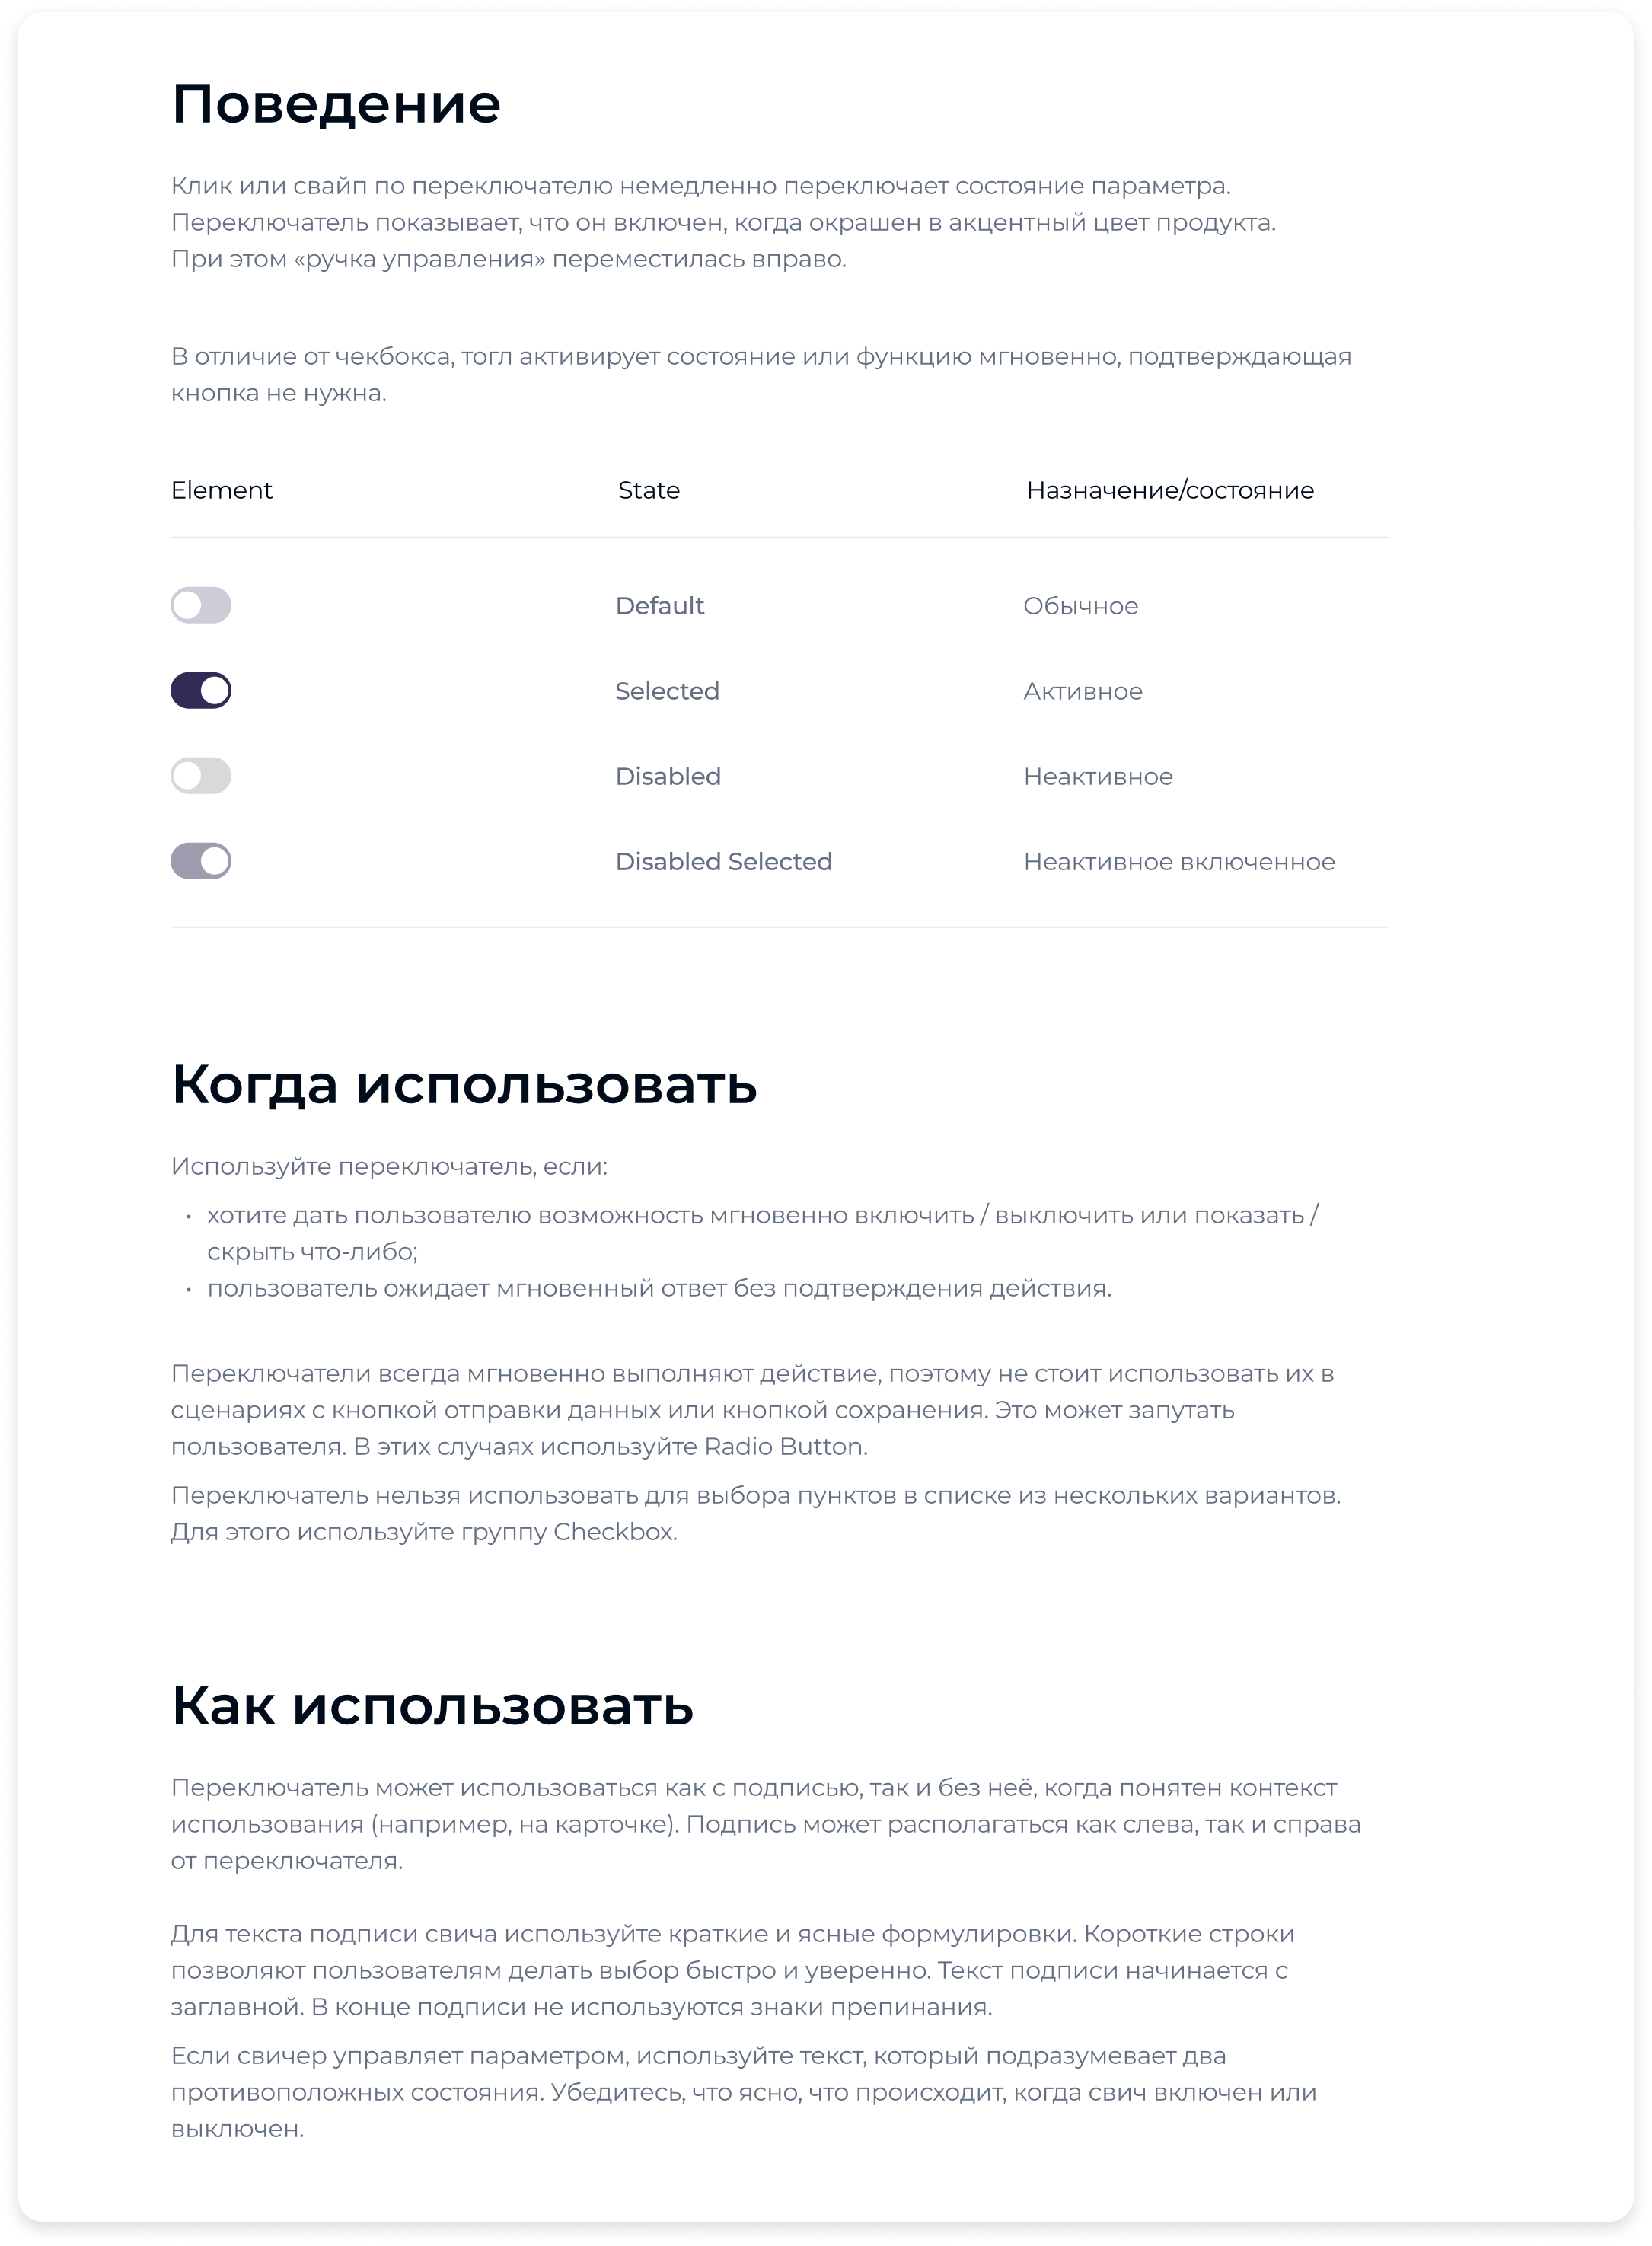
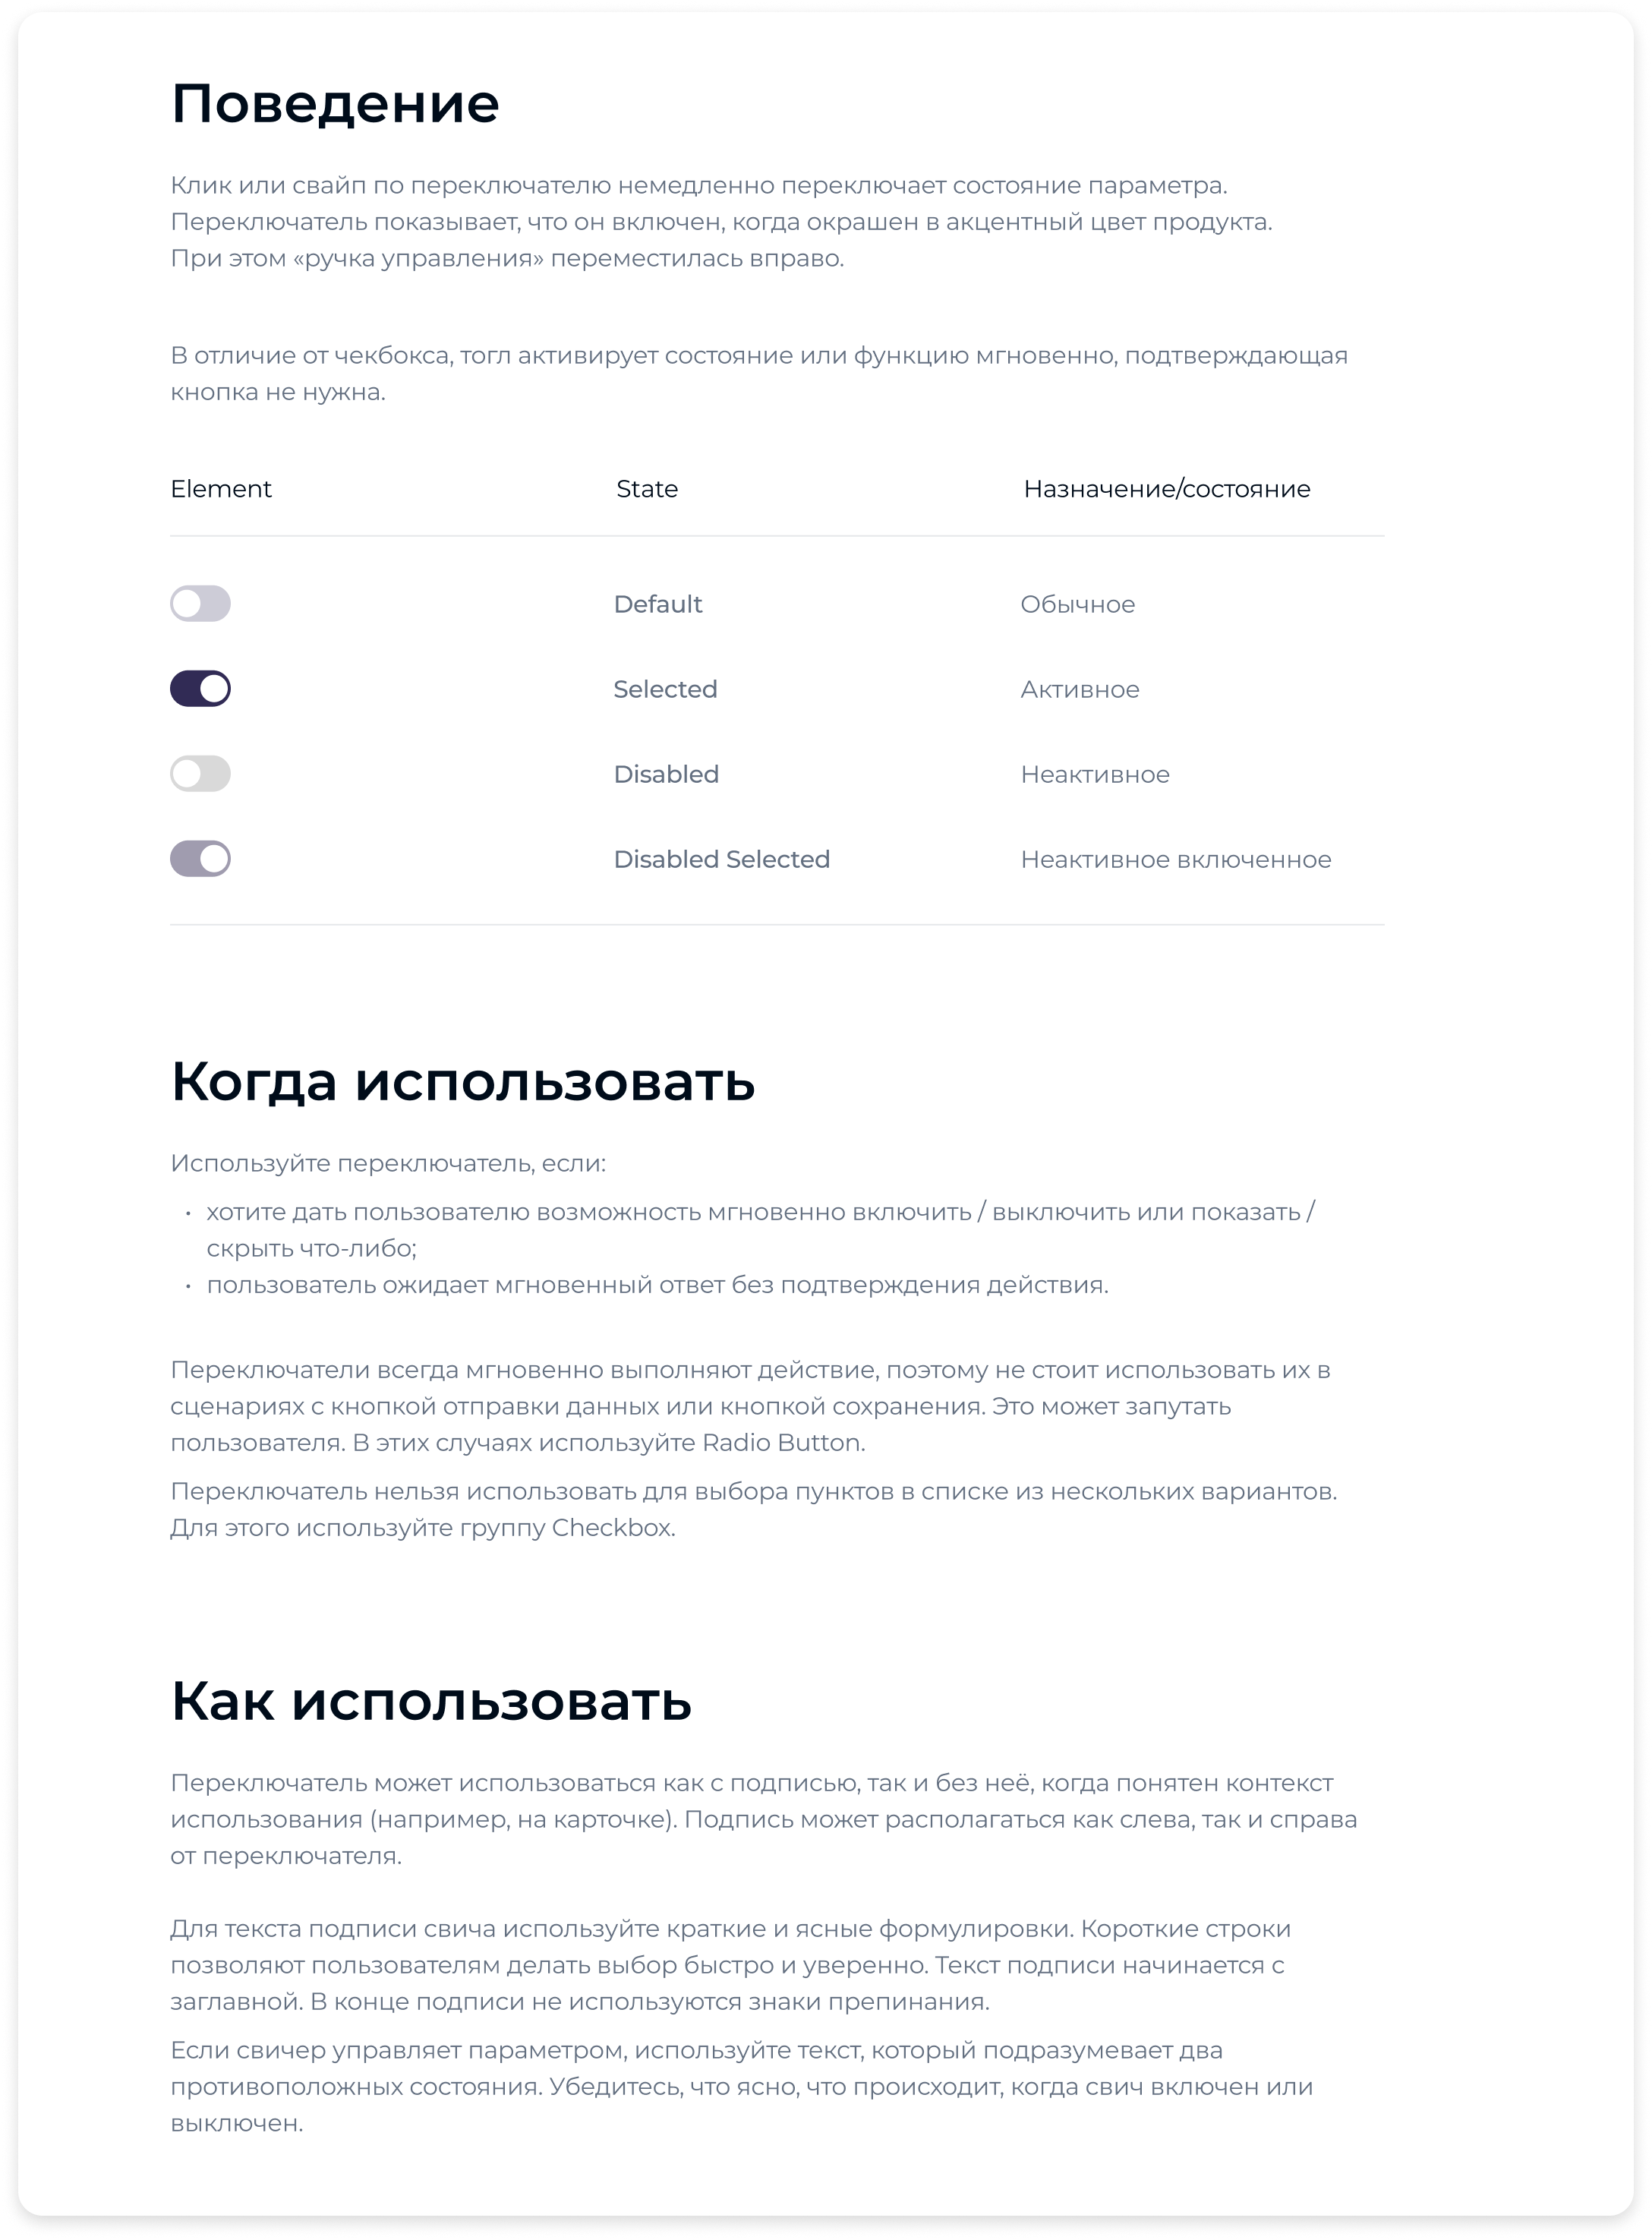
Update pages, update ava, update texts

diff --git a/ad-mortgage.html b/ad-mortgage.html
@@ -65,10 +65,10 @@
 
     <div class="company-grant card">
         <div class="company-grant__header">
-            <p class="s semi-bold">B2B</p>
+            <p class="s semi-bold">B2B + B2C</p>
             <div class="tag red xxs">DESKTOP / TABLET / MOBILE</div>
         </div>
-        <h2 class="xxl">AIM</h2>
+        <h2 class="xxl">A&D Mortgage</h2>
         <div class="company-grant__chips">
             <div class="tag outline xxs">
                 <div class="pink round"></div>
@@ -84,35 +84,73 @@
             </div>
         </div>
 
-        <h3 class="m company-grant__title mb32"><strong>«AIM»</strong> - один из продуктов компании, портал для ипотечных брокеров в США</h3>
+        <h3 class="m company-grant__title mb32"><strong>«A&D Mortgage»</strong> - ведущий ипотечный кредитор, входящий в топ-10 оптовых кредиторов по версии журнала Forbes и занимающий первое место среди кредиторов, не связанных с QM
+            в США. Работа на аутсорсе</h3>
         <div class="company-grant__task">
-            <h4 class="company-grant__task-title l semi-bold">Мои задачи в продукте</h4>
-            <ul class="company-grant__list">
-                <li>Проводил анализ конкурентов и метрик продукта</li>
-                <li>Внедрил дизайн-процессы в команду</li>
-                <li>Руководил двумя дизайнерами на направлении</li>
-                <li>На основе собранных данных сделал продуктовый GAP-анализ</li>
-                <li>Решил проблемные кейсы продукта</li>
-                <li>Внедрил в процессы дизайн-ревью, сформировал чек лист и удобный фреймворк для работы</li>
-                <li>Создание UI-кита и преобразование его в дизайн-систему</li>
+            <h4 class="company-grant__task-title l semi-bold">Продукты, над которыми работал:</h4>
+            <ul class="company-grant__list gap">
+                <li>AIM - Портал для ипотечных брокеров</li>
+                <li>Chat Bot (AIM) - чат бот с искусственным интеллектом, внедренным в AIM</li>
+                <li>Loyalty Program (main page AIM + eShop on Bitrix CRM)</li>
+                <li>Finastra - Портал для заёмщиков (с нуля)</li>
+                <li>Дизайн система (с нуля, выступал как product owner)</li>
+                <li>A&DMortgage.com - Внешний лендер сайт</li>
+                <li>Quick Pricer - Аналог ипотечного калькулятора</li>
+                <li>Bitrix CRM - (редизайн брокер СРМки)</li>
+                <li>eDoc - Внутренний сервис для работы с документами</li>
+                <li>HR-brand</li>
             </ul>
         </div>
         <div class="company-grant__task">
-            <h4 class="company-grant__task-title l semi-bold">Проблемы</h4>
+            <h4 class="company-grant__task-title l semi-bold">Проблемы в компании</h4>
             <ul class="company-grant__list">
                 <li>Неточные метрики, которые не способствовали улучшению продукта</li>
                 <li>Отсутствие собственной дизайн-системы</li>
+                <li>Отсутвтвие адаптивов для основных разрешений экранов</li>
                 <li>Существующий дизайн не подходил под бизнес требования компании</li>
+                <li>Отсутствие дизайн-процессов в компании в целом</li>
+                <li>Операционный дизайн-долг</li>
             </ul>
         </div>
         <div class="company-grant__task">
             <h4 class="company-grant__task-title l semi-bold">Решение</h4>
             <ul class="company-grant__list">
                 <li>Предложил внедрить более точные метрики для эффективной работы бизнеса</li>
-                <li>Исследовал конкурентов (доступы от СЕО)</li>
+                <li>Исследовал конкурентов напрямую с доступами от СЕО компании</li>
                 <li>В связке с дизайнерами преобразовали имеющийся UI-кит в полноценную дизайн-систему</li>
-                <li>Подготовил концепт будущего дизайна продукта</li>
+                <li>Подготовил концепт будущего дизайна продукта, и отправил его в работу</li>
+                <li>Подготовил адаптивные макеты для 1024, Таблет и мобильной версии экранов</li>
+                <li>Взял на себя задачи Лида, нанимал и онбордил дизайнеров для создания дизайн-команды, внедрил дизайн-процесс дизайн-ревью в команды компании</li>
+                <li>Внедрение кодизайна в команды</li>
             </ul>
+        </div>
+    </div>
+
+    <div class="card accordion active">
+        <div class="accordion__title">
+            <h3 class="m">WEBSITE</h3>
+            <svg class="accordion__title--arrow" width="24" height="24" viewBox="0 0 24 24" fill="none" xmlns="http://www.w3.org/2000/svg">
+                <path d="M18.5996 9L12.5996 15L6.59961 9" stroke="#FF3B30" stroke-width="1.88494"/>
+            </svg>
+        </div>
+        <div class="accordion__content active">
+            <div class="accordion__item">
+                <ul class="company-grant__list">
+                    <li>Нашёл проблему в главной шапке веб-сайта. Запросил метрики конверсии с формы Submit Scenario и кол-во кликов по всем кнопкам шапки. Хотелось позволить пользователю увидеть и прокликать все ссылки-слайды, не пытаясь сосредоточить их внимание на одном элементе.</li>
+                </ul>
+                <img src="website-case-1.png" alt="ДИЗАЙН-СИСТЕМА">
+            </div>
+            <div class="accordion__item mb20">
+                <h4 class="xs semi-bold mb20">ПОСЛЕ РЕДИЗАЙНА</h4>
+                <ul class="company-grant__list">
+                    <li>Нашёл проблему в главной шапке веб-сайта. Запросил метрики конверсии с формы Submit Scenario и кол-во кликов по всем кнопкам шапки. Хотелось позволить пользователю увидеть и прокликать все ссылки-слайды, не пытаясь сосредоточить их внимание на одном элементе.</li>
+                </ul>
+                <img width="100%" src="website-case-2.png" alt="ПРИМЕР">
+            </div>
+            <div class="accordion__item--bordered">
+                <p class="s bold">Результат метрик на отрезке 2 недель после А/Б тестирования (NDA): на <span>***% Увеличена</span> Конверсия,
+                    *** → <span>***</span> Количество кликов по разделам</p>
+            </div>
         </div>
     </div>
 
@@ -124,6 +162,12 @@
             </svg>
         </div>
         <div class="accordion__content active">
+            <ul class="company-grant__list">
+                <li>Главная проблема дизайн-системы была её отсутствие.</li>
+                <li>Спроектировал UI-кит и в связке с фронтами преобразовали его в полноценную дизайн-систему с подключением к сторибуку.</li>
+                <li>Подготовили перечень документаций с правилами использования компонентов в Atlaassian Confluence</li>
+                <li>Обновили макеты, в соответствии с реализованной дизайн-системой</li>
+            </ul>
             <div class="accordion__item">
                 <img src="design-case-1.png" alt="ДИЗАЙН-СИСТЕМА">
             </div>
@@ -140,83 +184,31 @@
 
     <div class="card accordion">
         <div class="accordion__title">
-            <h3 class="m">АВТОРИЗАЦИЯ</h3>
-            <svg class="accordion__title--arrow active" width="24" height="24" viewBox="0 0 24 24" fill="none" xmlns="http://www.w3.org/2000/svg">
-                <path d="M18.5996 9L12.5996 15L6.59961 9" stroke="#FF3B30" stroke-width="1.88494"/>
-            </svg>
-        </div>
-        <div class="accordion__content">
-            <div class="accordion__item">
-                <h4 class="xxs semi-bold">ДО РЕДИЗАЙНА</h4>
-                <img src="authorization-case-1.png" alt="Авторизация ДО">
-            </div>
-            <div class="accordion__item">
-                <h4 class="xxs semi-bold">ПОСЛЕ РЕДИЗАЙНА (NDA)</h4>
-                <img src="authorization-case-2.png" alt="Авторизация ПОСЛЕ">
-            </div>
-        </div>
-    </div>
-
-    <div class="card accordion">
-        <div class="accordion__title">
-            <h3 class="m">ГЛАВНАЯ</h3>
+            <h3 class="m">AIM</h3>
             <svg class="accordion__title--arrow" width="24" height="24" viewBox="0 0 24 24" fill="none" xmlns="http://www.w3.org/2000/svg">
                 <path d="M18.5996 9L12.5996 15L6.59961 9" stroke="#FF3B30" stroke-width="1.88494"/>
             </svg>
         </div>
-        <div class="accordion__content">
+        <div class="accordion__content cropped">
             <div class="accordion__item">
-                <h4 class="xxs semi-bold">ДО РЕДИЗАЙНА</h4>
-                <img src="main-case-1.png" alt="Авторизация ДО">
-            </div>
-            <div class="accordion__item">
-                <h4 class="xxs semi-bold">ПОСЛЕ РЕДИЗАЙНА (NDA)</h4>
-                <img src="main-case-2.png" alt="Авторизация ПОСЛЕ">
-            </div>
-        </div>
-    </div>
-
-    <div class="card accordion">
-        <div class="accordion__title">
-            <h3 class="m">СТРАНИЦА PIPELINE</h3>
-            <svg class="accordion__title--arrow" width="24" height="24" viewBox="0 0 24 24" fill="none" xmlns="http://www.w3.org/2000/svg">
-                <path d="M18.5996 9L12.5996 15L6.59961 9" stroke="#FF3B30" stroke-width="1.88494"/>
-            </svg>
-        </div>
-        <div class="accordion__content">
-            <div class="accordion__item">
-                <h4 class="xxs semi-bold">ДО РЕДИЗАЙНА</h4>
-                <img src="pipeline-case-1.png" alt="Авторизация ДО">
-            </div>
-            <div class="accordion__item">
-                <h4 class="xxs semi-bold">ПОСЛЕ РЕДИЗАЙНА (NDA)</h4>
-                <img src="pipeline-case-2.png" alt="Авторизация ПОСЛЕ">
+                <p class="s medium">Проблемы продукта:</p>
+                <ul class="company-grant__list">
+                    <li>Проблемы с версткой продукта от разработчиков</li>
+                    <li>Отстутствие точных метрик</li>
+                    <li>Отсутствие CJM карты, шаблонов персоны для проведения исследований</li>
+                    <li>При достаточном кол-ве пользователей с мобильными телефонами/планшетами - отсутствие адаптивов под нужные разрешения</li>
+                </ul>
+                <p class="s medium">Решения:</p>
+                <ul class="company-grant__list mb32">
+                    <li>Введение процесса дизайн-ревью с целью контроля качества верстки оригинальных макетов</li>
+                    <li>Введение и отслеживание таких метрик, как: CSI, Количество Успешно заполненных кредитов, скорость заполнения кредитов, ретеншн</li>
+                    <li>Введение процесса качественных исследований с брокерами</li>
+                    <li>Адаптивные версии продукта + PWA</li>
+                </ul>
+                <h4 class="xxs semi-bold">ПРИМЕР (ПОШАГОВОЕ ЗАПОЛНЕНИЕ+НАЧАТЬ С МЕСТА, ГДЕ ОСТАНОВИЛСЯ)</h4>
+                <img src="aim-case-1.jpg" alt="Personal information screen">
             </div>
         </div>
-    </div>
-
-<!--    <div class="card accordion">-->
-<!--        <div class="accordion__title">-->
-<!--            <h3 class="m">СТРАНИЦА ЗАПОЛНЕНИЯ LOAN (КРЕДИТА)</h3>-->
-<!--            <svg class="accordion__title&#45;&#45;arrow" width="24" height="24" viewBox="0 0 24 24" fill="none" xmlns="http://www.w3.org/2000/svg">-->
-<!--                <path d="M18.5996 9L12.5996 15L6.59961 9" stroke="#FF3B30" stroke-width="1.88494"/>-->
-<!--            </svg>-->
-<!--        </div>-->
-<!--        <div class="accordion__content">-->
-<!--            <div class="accordion__item">-->
-<!--                <h4 class="xxs semi-bold">ДО РЕДИЗАЙНА</h4>-->
-<!--                <img src="fill-case-1.png" alt="Авторизация ДО">-->
-<!--            </div>-->
-<!--            <div class="accordion__item">-->
-<!--                <h4 class="xxs semi-bold">ПОСЛЕ РЕДИЗАЙНА (NDA)</h4>-->
-<!--                <img src="fill-case-2.png" alt="Авторизация ПОСЛЕ">-->
-<!--            </div>-->
-<!--        </div>-->
-<!--    </div>-->
-
-    <div class="card company-results bold">
-        <h5>Результат метрик продукта на отрезке 2 месяцев:</br>
-            <span>***</span> Количество Submitted Loans, <span>***</span> Скорость заполнения Loan, *** → <span>***</span> CSI</h5>
     </div>
 
     <h4 class="xxl other-case">Другие кейсы</h4>

diff --git a/styles/components.scss b/styles/components.scss
@@ -408,6 +408,10 @@
   &__list {
     padding-left: 20px;
 
+    &.gap li {
+      margin-top: 12px;
+    }
+
     li {
       font-size: 18px;
       line-height: 25.2px;
@@ -424,7 +428,7 @@
         content: '';
         position: absolute;
         left: -15px;
-        top: calc(50% - 1px);
+        top: 13px;
         //transform: translateY(-50%);
         width: 4px; /* Размер кружка */
         height: 4px; /* Размер кружка */
@@ -510,12 +514,29 @@
   padding: 32px 32px 0 32px;
   margin-bottom: 32px;
 
+  &.active .accordion__title {
+    padding-bottom: 12px;
+    transition: padding-bottom 0.2s ease;
+
+    &--arrow {
+      transform: rotate(-180deg);
+      transition: transform 0.3s ease;
+    }
+  }
+
+  &.active .accordion__content {
+    max-height: 3500px;
+    opacity: 1;
+    padding-bottom: 32px;
+  }
+
   &__title {
     display: flex;
     align-items: center;
     justify-content: space-between;
     cursor: pointer;
     padding-bottom: 32px;
+    transition: padding-bottom 0.1s ease;
 
     & h3.m {
       font-weight: 600;
@@ -537,18 +558,27 @@
     transition: max-height 0.3s ease, opacity 0.3s ease;
     opacity: 0;
 
-    &.active {
-      max-height: 3500px;
-      opacity: 1;
-      padding-bottom: 32px;
+    &.cropped img {
+      border-radius: 16px;
     }
+
   }
 
   &__item {
     display: flex;
     flex-direction: column;
-    gap: 12px;
     margin-bottom: 32px;
+
+    &--bordered {
+      border: 1px solid #fff;
+      border-radius: 16px;
+      text-align: center;
+      padding: 34px 33px;
+
+      & span {
+        color: #43CD72;
+      }
+    }
 
     & h4.m {
       font-weight: 600;
@@ -556,6 +586,10 @@
 
     &:last-child {
       margin-bottom: 0;
+    }
+
+    img {
+      margin-top: 20px;
     }
   }
 }
@@ -572,7 +606,7 @@
     gap: 20px;
 
     &.hobbies {
-      margin-bottom: 20px;
+      margin-bottom: 52px;
     }
 
     p {

diff --git a/about.html b/about.html
@@ -60,7 +60,7 @@
                 <ul class="about-content__list">
                     <li>Провожу пользовательские тестирования и интервью, улучшаю показатели бизнеса и лечу боли пользователей с помощью дизайна.</li>
                     <li>Вывожу гипотезы исходя из исследований, повышаю ключевые метрики бизнеса с помощью дизайна</li>
-                    <li>Проектирую дизайн в Figma, веду задачи и документацию в Atlassian, проектирую UI-киты и превращаю<br/>их в дизайн-системы, плотно взаимодействую с командой разработки и бизнесом</li>
+                    <li>Проектирую дизайн в Figma, веду задачи и документацию в Confluence, проектирую UI-киты и превращаю их в дизайн-системы, плотно взаимодействую с командой разработки и бизнесом</li>
                 </ul>
             </div>
         </div>
@@ -72,16 +72,6 @@
                     от Лебедева. Мониторю крупные дизайн - системы на рынке. Посещаю оффлайн/онлайн<br/>
                     дизайн мит-апы. В свободное время занимаюсь музыкой, графическим дизайном<br/>
                     Люблю британскую хип-хоп сцену. Занимался хоккеем</p>
-            </div>
-        </div>
-        <div class="about-content__photo">
-            <div class="about-content__photo-item">
-                <img width="459" src="about-1.png" alt="С друзьями после бани">
-                <p class="xxs">С ДРУЗЬЯМИ ПОСЛЕ БАНИ</p>
-            </div>
-            <div class="about-content__photo-item">
-                <img width="459" src="about-2.png" alt="РЫБАЛКА">
-                <p class="xxs">РЫБАЛКА</p>
             </div>
         </div>
 

diff --git a/main.js b/main.js
@@ -6,10 +6,8 @@ const scrollButton = document.querySelector('.scroll-button')
 for (let i = 0; i < accordionElements.length; i++) {
     const currentAccordion = accordionElements[i]
     currentAccordion.addEventListener('click', () => {
-      const arrow = currentAccordion.querySelector('.accordion__title--arrow');
-      const content = currentAccordion.nextElementSibling
-      arrow.classList.toggle('active');
-      content.classList.toggle('active');
+      const accordion = currentAccordion.parentElement
+      accordion.classList.toggle('active');
   })
 }
 
@@ -18,7 +16,6 @@ function scrollToTop() {
 }
 
 function toggleScrollButton() {
-    console.log('here', window.scrollY)
     if (window.scrollY > 200) {
         scrollButton.classList.add('show')
     } else {